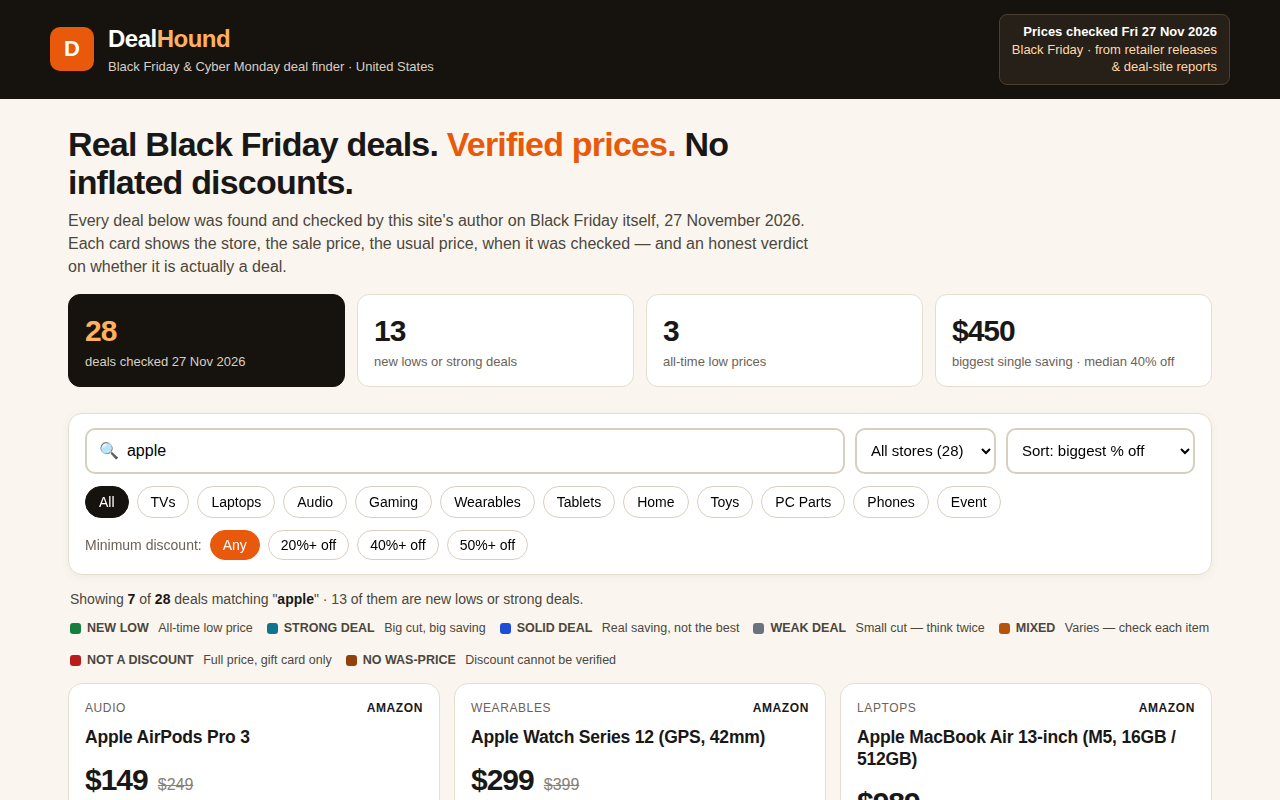
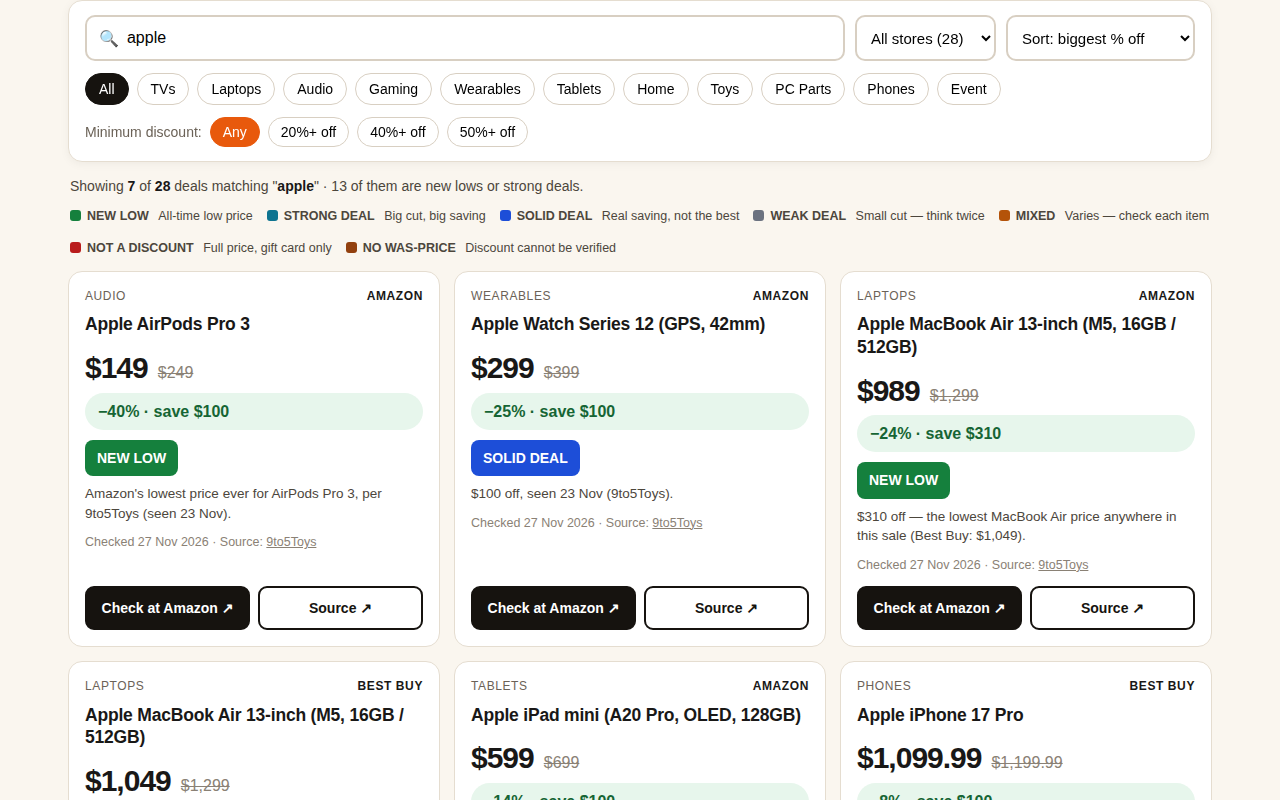
Black Friday v2: Top 5 featured deals strip, 6 stat cards (total savings + avg discount), bigger discount badges, stronger Black Friday identity. 28 deals. Playtest PASS, dossier byte-identical.

Changed region(s): [[0.0, 0.0, 1.0, 1.0], [0.5938, 0.3438, 0.9375, 0.5]]

diff --git a/app/index.html b/app/index.html
@@ -128,6 +128,32 @@
     .sale{font-size:27px}
     .controls{position:static}
   }
+  /* ---- v2: denser stats, bigger badges, Top 5 strip, bolder identity ---- */
+  .hero h1{font-size:38px}
+  .card .save{font-size:16px;font-weight:900;padding:7px 13px;margin:3px 0 10px}
+  .card .save.big{font-size:19px;background:#16a34a;color:#fff;padding:8px 14px}
+  .card .verdict{font-size:14px;padding:8px 12px}
+  @media (min-width:901px){
+    .stats{grid-template-columns:repeat(6,1fr)}
+    .stat{padding:12px 13px}
+    .stat .n{font-size:27px}
+  }
+  @media (max-width:900px){ .stats{grid-template-columns:repeat(3,1fr)} }
+  .top5{background:#16130f;color:#fff;border-radius:14px;padding:14px 16px 12px;margin:2px 0 16px;border:2px solid #f59e0b}
+  .top5 h2{margin:0 0 10px;font-size:20px;letter-spacing:-.3px}
+  .top5-kicker{display:block;font-size:12px;letter-spacing:2px;text-transform:uppercase;color:#ffb25e;margin-bottom:3px}
+  .top5 ol{list-style:none;margin:0;padding:0;display:grid;grid-template-columns:repeat(5,1fr);gap:10px}
+  .top5 li a{display:flex;flex-direction:column;gap:3px;background:#262019;border:1px solid #4a3f30;border-radius:10px;padding:10px;text-decoration:none;color:#fff;height:100%}
+  .top5 li a:hover{border-color:#f59e0b}
+  .top5 .rank{font-size:22px;font-weight:900;color:#ffb25e;line-height:1}
+  .t5name{font-size:13.5px;font-weight:800;line-height:1.3}
+  .t5store{font-size:11.5px;color:#d8cfc2;text-transform:uppercase;letter-spacing:.4px}
+  .t5price{font-size:19px;font-weight:900}
+  .t5price s{font-size:13px;color:#a89e8d;font-weight:400}
+  .t5off{display:inline-block;background:#dc2626;color:#fff;font-weight:900;font-size:13px;border-radius:999px;padding:4px 9px;width:fit-content;margin-top:4px}
+  .top5-note{font-size:12.5px;color:#d8cfc2;margin:12px 0 0}
+  @media (max-width:900px){ .top5 ol{grid-template-columns:repeat(2,1fr)} }
+  @media (max-width:560px){ .top5 ol{grid-template-columns:1fr} .top5 h2{font-size:19px} }
 </style>
 </head>
 <body>
@@ -144,11 +170,12 @@
 
 <main class="wrap">
   <div class="hero">
-    <h1>Real Black Friday deals. <em>Verified prices.</em> No inflated discounts.</h1>
+    <h1>28 real Black Friday deals. <em>$4,224 total savings.</em> Every price verified.</h1>
     <p class="lede">Every deal below was found and checked by this site's author on Black Friday itself,
       27 November 2026. Each card shows the store, the sale price, the usual price, when it was
       checked &mdash; and an honest verdict on whether it is actually a deal.</p>
     <div class="stats" id="stats"></div>
+    <div class="top5" id="top5" aria-label="Top 5 biggest savings"></div>
   </div>
 
   <div class="controls" id="controls">
@@ -489,17 +516,39 @@ function syncControls(){
   document.getElementById("sort").value = state.sort;
   document.getElementById("q").value = state.q;
 }
+function buildTop5(){
+  var ranked = DEALS.filter(function(d){ return pct(d) !== null; }).sort(function(a, b){
+    var dp = (pct(b) || 0) - (pct(a) || 0);
+    return dp !== 0 ? dp : (save(b) || 0) - (save(a) || 0);
+  }).slice(0, 5);
+  var topSave = Math.max.apply(null, ranked.map(function(d){ return save(d) || 0; }));
+  document.getElementById("top5").innerHTML =
+    '<h2><span class="top5-kicker">Biggest savings first</span>Top 5 deals &mdash; save up to $' + Math.round(topSave) + '</h2>'
+    + '<ol>' + ranked.map(function(d, i){
+      return '<li><a href="' + SHOP[d.store] + '"><span class="rank">#' + (i + 1) + '</span>'
+        + '<span class="t5name">' + esc(d.name) + '</span>'
+        + '<span class="t5store">' + esc(d.store) + ' &middot; ' + VERDICT[d.verdict].label + '</span>'
+        + '<span class="t5price">' + money(d.sale) + ' <s>' + money(d.was) + '</s></span>'
+        + '<span class="t5off">&minus;' + pct(d) + '% &middot; save ' + money(save(d)) + '</span></a></li>';
+    }).join("") + '</ol>'
+    + '<p class="top5-note">Ranked by biggest % off. Every price was checked on 27 Nov 2026 &mdash; tap any deal to check it at the store.</p>';
+}
 function buildStats(){
   var real = DEALS.filter(function(d){ return d.verdict === "newlow" || d.verdict === "strong"; }).length;
   var lows = DEALS.filter(function(d){ return d.verdict === "newlow"; }).length;
   var best = Math.max.apply(null, DEALS.map(function(d){ return save(d) || 0; }));
   var pcts = DEALS.map(pct).filter(function(p){ return p !== null; }).sort(function(a,b){ return a-b; });
   var median = pcts[Math.floor(pcts.length / 2)];
+  var totalSaved = DEALS.reduce(function(t, d){ return t + (save(d) || 0); }, 0);
+  var avg = Math.round(pcts.reduce(function(t, p){ return t + p; }, 0) / pcts.length);
   document.getElementById("stats").innerHTML =
     '<div class="stat hot"><div class="n">' + DEALS.length + '</div><div class="l">deals checked 27 Nov 2026</div></div>'
+    + '<div class="stat"><div class="n">$' + Math.round(totalSaved).toLocaleString("en-US") + '</div><div class="l">total savings across all deals</div></div>'
+    + '<div class="stat"><div class="n">' + avg + '%</div><div class="l">average discount &middot; median ' + median + '% off</div></div>'
     + '<div class="stat"><div class="n">' + real + '</div><div class="l">new lows or strong deals</div></div>'
     + '<div class="stat"><div class="n">' + lows + '</div><div class="l">all-time low prices</div></div>'
-    + '<div class="stat"><div class="n">$' + best + '</div><div class="l">biggest single saving &middot; median ' + median + '% off</div></div>';
+    + '<div class="stat"><div class="n">$' + best + '</div><div class="l">biggest single saving</div></div>';
+  buildTop5();
 }
 readParams();
 buildControls();

diff --git a/README.md b/README.md
@@ -11,6 +11,10 @@ strong, solid, weak, mixed, not a discount, or no was-price** — with the evide
 for the call. Search and filters (category, store, minimum discount) all work, on
 desktop and on a phone, with no network requests at all.
 
+v2 (28 Nov 2026): a "Top 5 deals — save up to $450" strip ranked by biggest % off,
+six stat cards including $4,224 total savings and a 37% average discount, and
+much bigger discount badges on every card (50%+ cuts get a solid green pill).
+
 Built for the [make.fun bounty "Build the best real Black Friday deal finder"](https://make.fun/bounty/black-friday-deal-finder-01)
 ($250, 20 places paid; 1st $50, 2nd $35, 3rd $25).
 
